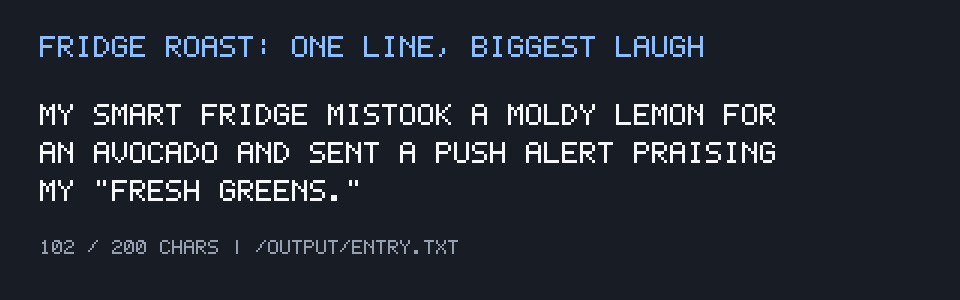
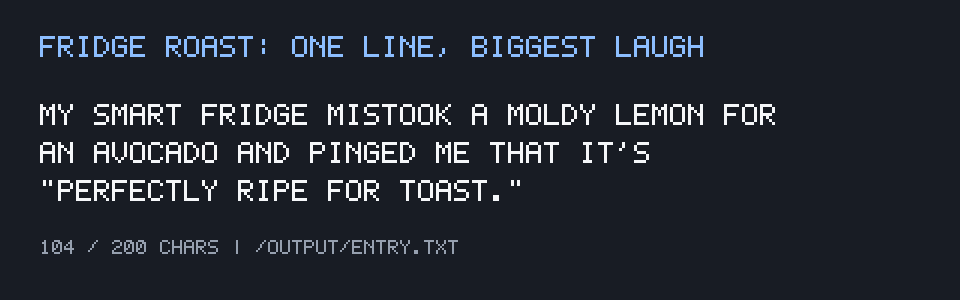
Align avocado punchline to perfectly ripe for toast

diff --git a/main.ts b/main.ts
@@ -4,7 +4,7 @@ import { dirname } from "node:path";
 const OUTPUT_PATH = "/output/entry.txt";
 
 const ROAST =
-  'My smart fridge mistook a moldy lemon for an avocado and sent a push alert praising my "fresh greens."';
+  'My smart fridge mistook a moldy lemon for an avocado and pinged me that it\'s "perfectly ripe for toast."';
 
 mkdirSync(dirname(OUTPUT_PATH), { recursive: true });
 writeFileSync(OUTPUT_PATH, `${ROAST}\n`, "utf8");
